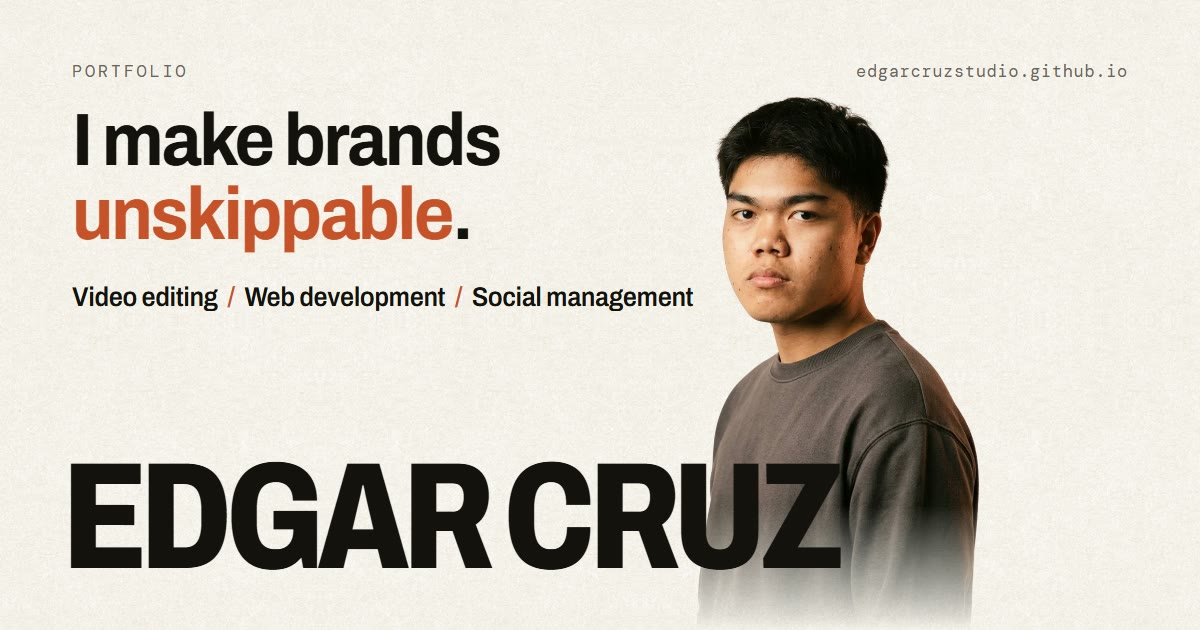
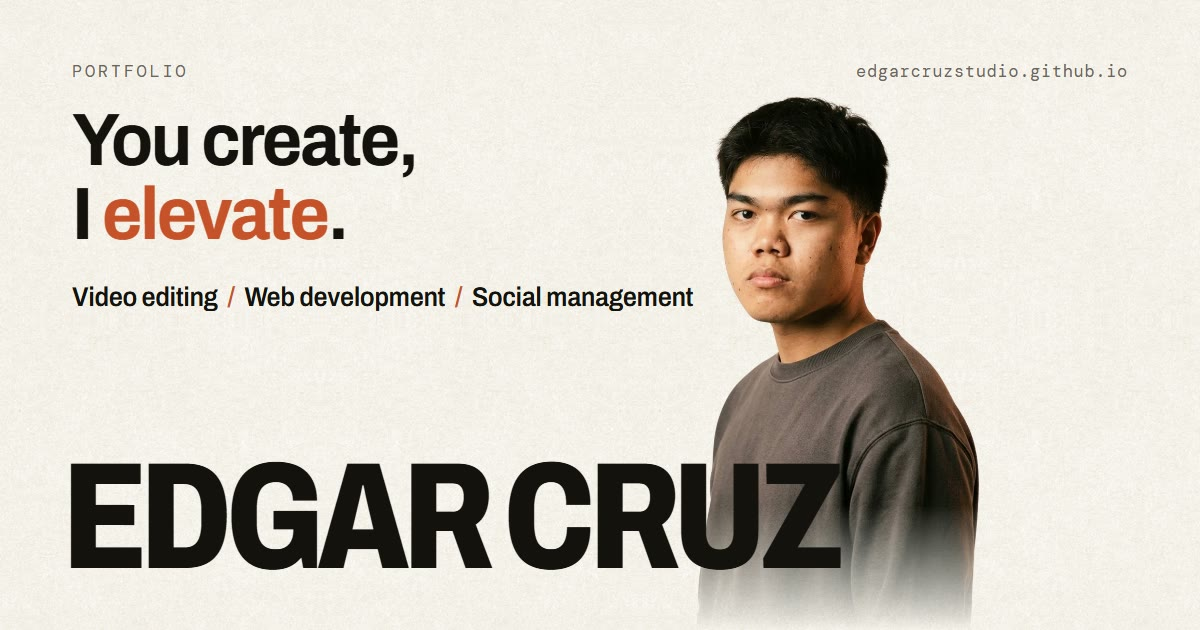
Change hero hook to "You create, I elevate."
Replaces "I make brands unskippable." in the homepage hero, keeping the
two-line layout and the orange accent (now on "elevate"). The link-preview
card and its alt text are regenerated to match.

Changed region(s): [[0.0617, 0.181, 0.4317, 0.3921]]

diff --git a/docs/index.html b/docs/index.html
@@ -16,7 +16,7 @@
 <meta property="og:image:type" content="image/jpeg">
 <meta property="og:image:width" content="1200">
 <meta property="og:image:height" content="630">
-<meta property="og:image:alt" content="Edgar Cruz: video editing, web development and social management. I make brands unskippable.">
+<meta property="og:image:alt" content="Edgar Cruz: video editing, web development and social management. You create, I elevate.">
 <meta name="twitter:card" content="summary_large_image">
 <meta name="twitter:image" content="https://edgarcruzstudio.github.io/assets/img/og-card.jpg">
 
@@ -60,7 +60,7 @@
     <div class="shell hero-shell">
       <div class="hero-top">
         <div class="hero-lead">
-          <h1>I make brands <em>unskippable</em>.</h1>
+          <h1>You create,<br>I <em>elevate</em>.</h1>
           <p class="trio-line"><span>Video editing</span><i>/</i><span>Web development</span><i>/</i><span>Social management</span></p>
           <p class="lede">One freelancer in the Philippines doing all three, so your campaign, your site and your feed finally sound like the same brand.</p>
           <div class="hero-actions">
